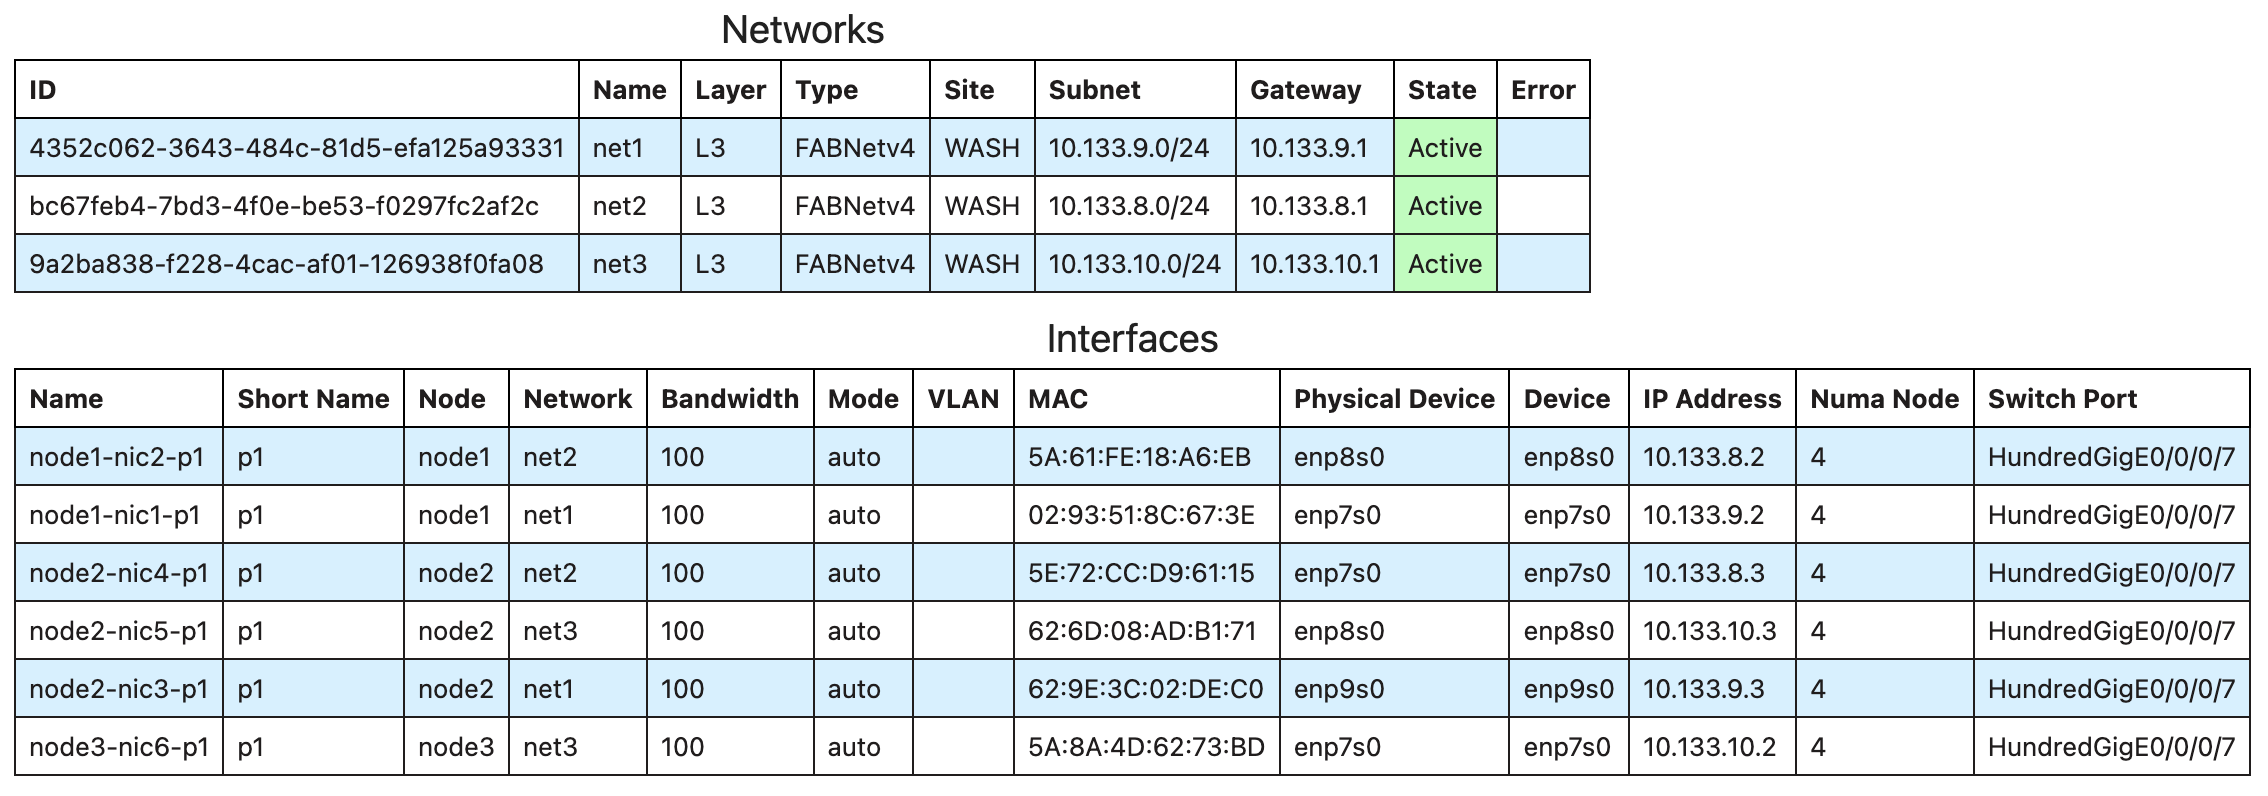
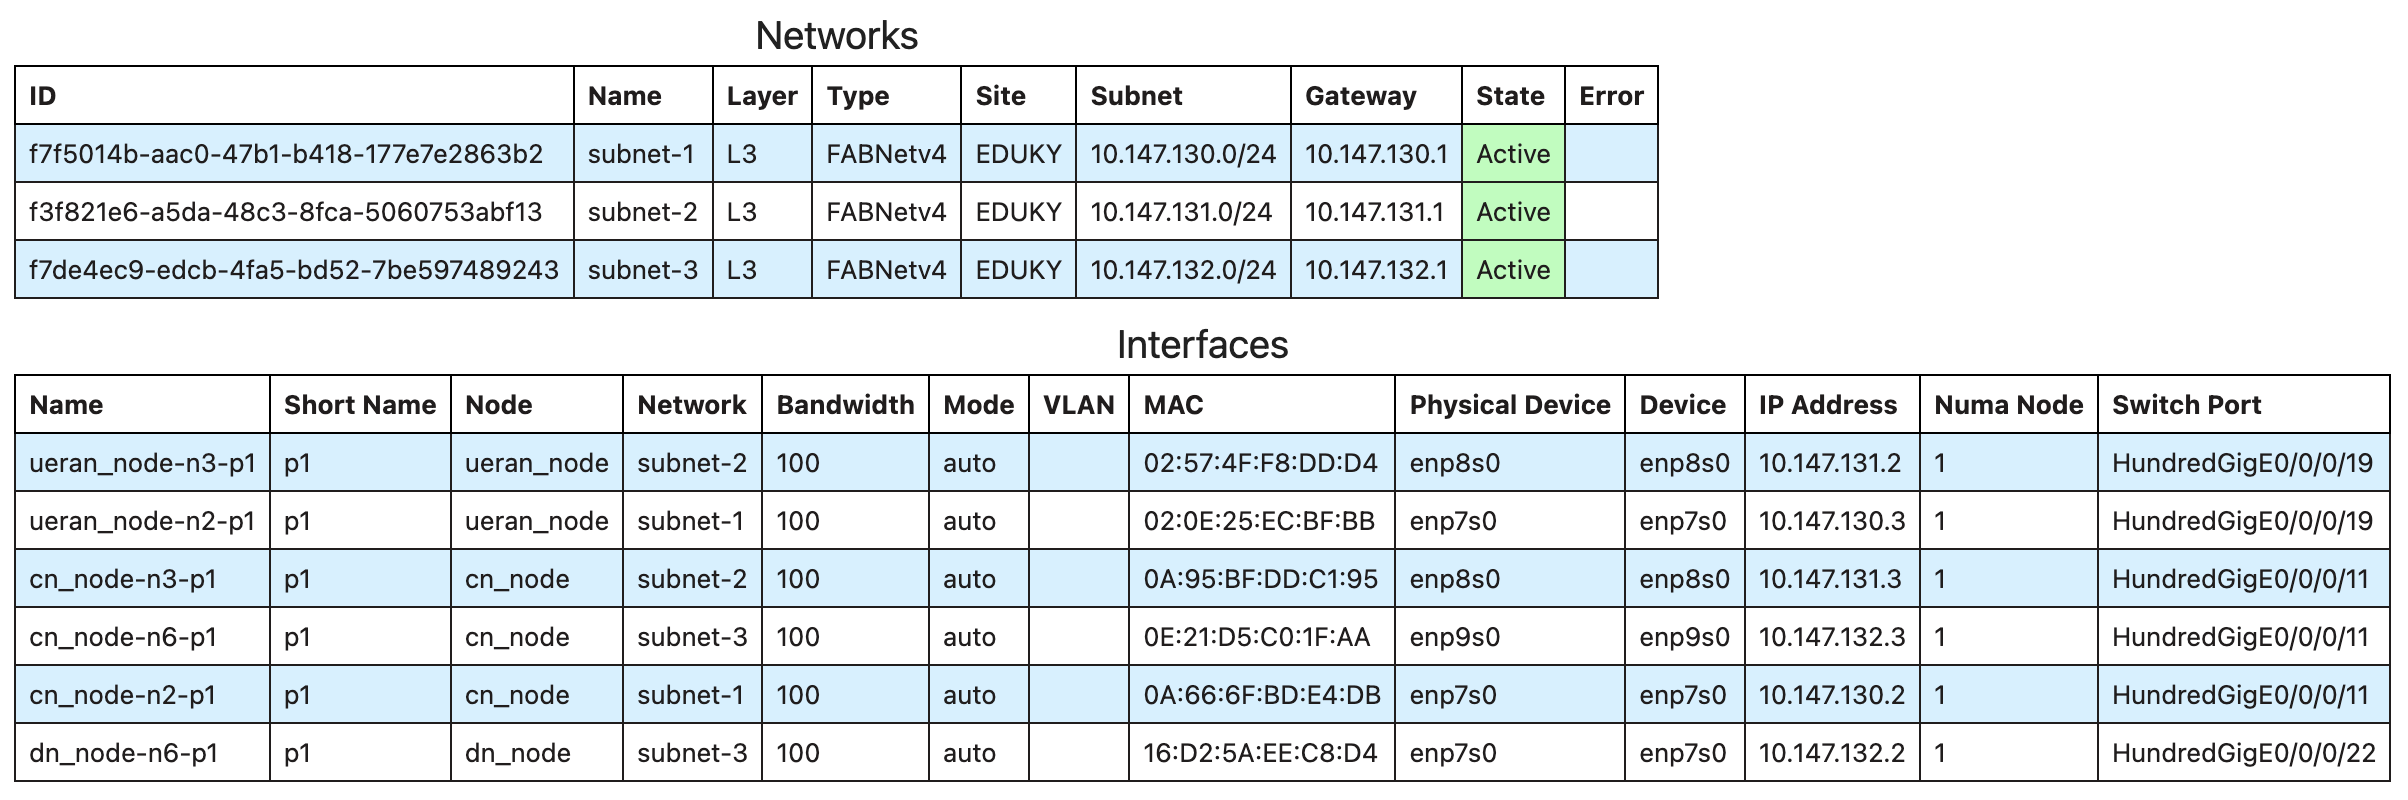
update 2nd tutorial

Changed region(s): [[0.0, 0.0302, 1.0, 0.995]]

diff --git a/docs/knit-2026-tutorials/2nd-tutorial.md b/docs/knit-2026-tutorials/2nd-tutorial.md
@@ -35,14 +35,12 @@ You will be assigned a specific node.  Please do not use any servers not assigne
 We have also released an artifact for creating clusters on Fabric: **[L25GC+ FABRIC Artifact](https://artifacts.fabric-testbed.net/artifacts/078e8c8d-eb8d-4279-b711-85fb217a7db7)**
 
 ### Topology Setup
-The experimental testbed consists of a UE/RAN node, a Core Network node, and a Data Network (DN) node, connected through three separate subnets. Subnet-1 is used for the N2 interface between the UE/RAN and the control-plane NFs in the 5G core. Subnet-2 is used for the N3 interface between the UE/RAN and the UPF-U. Subnet-3 is used for the N6 interface between the UPF-U and the DN.
+The experimental testbed consists of a UE/RAN node, a Core Network (CN) node, and a Data Network (DN) node, connected through three separate subnets. `subnet-1` is used for the N2 interface between the UE/RAN and the control-plane NFs in the 5G core. `subnet-2` is used for the N3 interface between the UE/RAN and the UPF-U. `subnet-3` is used for the N6 interface between the UPF-U and the DN.
 
 ![FABRIC Topology](./tutorial-topo.png)
 
 ### Example FABRIC Network and Interface Configuration
 The screenshot below shows an example network and interface configuration after creating a cluster on the FABRIC testbed. 
-
-In this example, `net1` corresponds to **Subnet-1**, which connects the UE/RAN and the N2 interface of the core network control plane. `net2` corresponds to **Subnet-2**, which connects the UE/RAN and the N3 interface in the core network. `net3` corresponds to **Subnet-3**, which connects the N6 interface in the core network and the DN.
 
 Users should pay close attention to four pieces of information for each interface: 
 - the node that the interface belongs to (**Node** column)
@@ -90,7 +88,11 @@ The AMF configuration file is located at:
 ~/L25GC-plus/config/amfcfg.yaml
 ```
 
-Open the file and find the `ngapIpList` field. By default, it is set to `127.0.0.1`, which must be replaced with the actual **N2 IP address** of the Core Network node. In the example shown in [Example FABRIC Network and Interface Configuration](#example-fabric-network-and-interface-configuration), this is the IP address assigned to `enp9s0` (i.e., `net1` interface on the node2), which is `10.133.9.3`. 
+Open the file and find the `ngapIpList` field. By default, it is set to `127.0.0.1`, which must be replaced with the actual **N2 IP address** of the Core Network node.
+
+> You can find this IP by checking the FABRIC configuration output table: in the **Interfaces** section, look for the row whose **Name** matches the CN node’s N2 interface (`cn_node-n2-p1`), and then copy the value from the **IP Address** column. In the example shown in [Example FABRIC Network and Interface Configuration](#example-fabric-network-and-interface-configuration), the **N2 IP address** of the Core Network node is `10.147.130.2`.
+
+![AMF Configuration](./amf-config.png)
 
 Change:
 
@@ -103,7 +105,7 @@ to:
 
 ```yaml
 ngapIpList:  # the IP list of N2 interfaces on this AMF
-- {N2_IP_ON_CN}
+- {IP of cn_node-n2-p1 in your FABRIC cluster}
 ### Replace it with the actual N2 IP address of your own Core Network node! ###
 ```
 
@@ -118,7 +120,11 @@ The SMF configuration file is located at:
 ~/L25GC-plus/config/smfcfg.yaml
 ```
 
-Open the file and find the `endpoints` field. By default, it is set to `127.0.0.8`, which must be replaced with the actual **N3 IP address** of the Core Network node. In the example shown in [Example FABRIC Network and Interface Configuration](#example-fabric-network-and-interface-configuration), this is the IP address assigned to `enp7s0` (i.e., `net2` interface on the node2), which is `10.133.8.3`. 
+Open the file and find the `endpoints` field. By default, it is set to `127.0.0.8`, which must be replaced with the actual **N3 IP address** of the Core Network node.
+
+> You can find this IP by checking the FABRIC configuration output table: in the **Interfaces** section, look for the row whose **Name** matches the CN node's N3 interface (`cn_node-n3-p1`), and then copy the value from the **IP Address** column. In the example shown in [Example FABRIC Network and Interface Configuration](#example-fabric-network-and-interface-configuration), the **N3 IP address** of the Core Network node is `10.147.131.3`.
+
+![SMF Configuration](./smf-config.png)
 
 Change:
 
@@ -137,7 +143,7 @@ to:
   interfaces: # Interface list of the UPF-U
    - interfaceType: N3 # the type of the interface (N3 or N9)
      endpoints: # the IP address of this N3 interface on this UPF
-       - {N3_IP_ON_CN}
+       - {IP of cn_node-n3-p1 in your FABRIC cluster}
 ```
 
 ### Step-5: Configure UPF-U
@@ -147,6 +153,17 @@ The UPF-U configuration file is located at:
 ```bash
 ~/L25GC-plus/NFs/onvm-upf/5gc/upf_u/config/upf_u.yaml
 ```
+
+> **N3/N6 IP addresses on CN node:** You can find the corresponding **N3** and **N6** IP addresses by checking the FABRIC configuration output table: in the **Interfaces** section, look for the row whose **Name** matches the CN node's N3 interface (`cn_node-n3-p1`) and N6 interface (`cn_node-n6-p1`), and then copy the value from the **IP Address** column. 
+
+In the example shown in [Example FABRIC Network and Interface Configuration](#example-fabric-network-and-interface-configuration), the **N3 IP address** of the Core Network node is `10.147.131.3` and the **N6 IP address** of the Core Network node is `10.147.132.3`.
+![UPF-U Configuration](./upf-u-config.png)
+
+
+> **N3/N6 IP addresses on UERAN/DN node:** You can find the corresponding **N3** and **N6** IP addresses by checking the FABRIC configuration output table: in the **Interfaces** section, look for the row whose **Name** matches the UERAN node's N3 interface (`ueran_node-n3-p1`) and  DN node's N6 interface (`dn_node-n6-p1`), and then copy the value from the **IP Address** column. 
+
+In the example shown in [Example FABRIC Network and Interface Configuration](#example-fabric-network-and-interface-configuration), the **N3 IP address** of the UERAN node is `10.147.131.2` and the **N6 IP address** of the DN node is `10.147.132.2`.
+![UERAN/DN Configuration](./ueran-dn-config.png)
 
 The configuration file should look like this (based on the example shown in [Example FABRIC Network and Interface Configuration](#example-fabric-network-and-interface-configuration)):
 
@@ -158,10 +175,10 @@ info:
 configuration:
   log_level: "warning" # trace, debug, info, warning, error, fatal, panic
   dataplane:
-    upf_n3_ip: "{N3_IP_ON_CN}"    # N3 interface IP address on the Core Network node
-    upf_n6_ip: "{N6_IP_ON_CN}"   # N6 interface IP address on the Core Network node
-    an_peer_n3_ip: "{N3_IP_ON_UERAN_NODE}"  # N3 interface IP address on the UE/RAN node
-    dn_peer_n6_ip: "{N6_IP_ON_DN}"          # N6 interface IP address on the DN node
+    upf_n3_ip: "{IP of cn_node-n3-p1}"         # N3 interface IP address on the Core Network node
+    upf_n6_ip: "{IP of cn_node-n6-p1}"         # N6 interface IP address on the Core Network node
+    an_peer_n3_ip: "{IP of ueran_node-n3-p1}"  # N3 interface IP address on the UE/RAN node
+    dn_peer_n6_ip: "{IP of dn_node-n6-p1}".    # N6 interface IP address on the DN node
 
     ports:
       n3_port: 0                     # NIC port used for N3 interface
@@ -238,22 +255,30 @@ cd ~/L25GC-plus/
 > Since the UE and DN are in different L3 subnets, both the UERAN node and the DN node need static routes so that traffic is forwarded through the UPF-U.
 
 On the UERAN node, add a route so that traffic destined for the DN server is sent through the UPF-U's N3 interface:
-
 ```bash
 # On the UERAN node:
-sudo ip route add <DN_SERVER_IP> via <N3_IP_on_UPF_U> dev <N3_INTERFACE_on_UERAN>
-
-# Example:
-sudo ip route add 10.133.10.2 via 10.133.9.3 dev enp8s0
+sudo ip route add <IP of dn_node-n6-p1> via <IP of cn_node-n3-p1> dev <Device of ueran_node-n3-p1>
 ```
 
-- Here, `10.133.9.3` is the **UPF-U N3 IP**. It should match the `upf_n3_ip` configured in:
+You can find these values directly from the FABRIC **Interfaces** table by matching the **Name** column:
 
-  ```bash
-  ~/L25GC-plus/NFs/onvm-upf/5gc/upf_u/config/upf_u.yaml
-  ```
-- `N3_INTERFACE_on_UERAN` is the local network interface on the UERAN node that is connected to the **Subnet-2** as the UPF-U's N3 interface. In the example above, this interface is `enp8s0`.
+* Find the row named `dn_node-n6-p1`, and use its **IP Address** as the destination IP.
+* Find the row named `cn_node-n3-p1`, and use its **IP Address** as the next-hop (`via`) IP.
+* Find the row named `ueran_node-n3-p1`, and use its **Device** as the outgoing interface (`dev`).
 
+![Add L3 Route to DN server](./add-dn-route.png)
+
+In the example shown in [Example FABRIC Network and Interface Configuration](#example-fabric-network-and-interface-configuration):
+
+* `dn_node-n6-p1` → `IP Address = 10.147.132.2`
+* `cn_node-n3-p1` → `IP Address = 10.147.131.3`
+* `ueran_node-n3-p1` → `Device = enp8s0`
+
+So the route becomes:
+
+```bash
+sudo ip route add 10.147.132.2 via 10.147.131.3 dev enp8s0
+```
 
 ### Step-3: Configure UERANsim (PDU Establishment only)
 > This step updates the UERANsim gNB configuration so that the simulated gNB uses the correct **N2** and **N3** interface IP addresses and can connect to the **AMF** and **UPF-U** in the core network. These settings must match the actual network configuration of your FABRIC cluster.
@@ -263,12 +288,7 @@ The UERANsim gNB configuration file is located at:
 ~/L25GC-plus/UERANSIM/config/free5gc-gnb.yaml
 ```
 
-In this file:
-* `ngapIp` should be set to the gNB's **N2 interface IP address**. In the example shown in [Example FABRIC Network and Interface Configuration](#example-fabric-network-and-interface-configuration), this is the IP address assigned to `enp7s0` (i.e., `net1` interface on the **node1**), which is `10.133.9.2`. 
-* `gtpIp` should be set to the gNB's **N3 interface IP address**. In the example shown in [Example FABRIC Network and Interface Configuration](#example-fabric-network-and-interface-configuration), this is the IP address assigned to `enp8s0` (i.e., `net2` interface on the **node1**), which is `10.133.8.2`.
-* `amfConfigs.address` should be set to the **AMF's N2 interface IP address**. In the example shown in [Example FABRIC Network and Interface Configuration](#example-fabric-network-and-interface-configuration), this is the IP address assigned to `enp9s0` (i.e., `net1` interface on the **node2**), which is `10.133.9.3`.
-
-For example, replace:
+Replace:
 
 ```yaml
 ...
@@ -283,14 +303,26 @@ with:
 
 ```yaml
 ...
-  ngapIp: {N2_IP_ON_UERAN_NODE}   # gNB's N2 Interface IP address
-  gtpIp:  {N3_IP_ON_UERAN_NODE}   # gNB's N3 Interface IP address
+  ngapIp: {IP of ueran_node-n2-p1}   # gNB's N2 Interface IP address
+  gtpIp:  {IP of ueran_node-n3-p1}   # gNB's N3 Interface IP address
 
   amfConfigs:
-    - address: {N2_IP_ON_CN}      # AMF's N2 interface IP address
+    - address: {IP of cn_node-n2-p1}      # AMF's N2 interface IP address
 ```
 
-Make sure these values match the actual interface IP addresses in your own FABRIC cluster.
+Make sure these values match the actual interface IP addresses in your own FABRIC cluster. You can find them directly from the FABRIC **Interfaces** table by matching the **Name** column:
+
+* `ngapIp` should be set to the **IP Address** of `ueran_node-n2-p1`, which is the gNB's **N2 interface IP**.
+* `gtpIp` should be set to the **IP Address** of `ueran_node-n3-p1`, which is the gNB's **N3 interface IP**.
+* `amfConfigs.address` should be set to the **IP Address** of `cn_node-n2-p1`, which is the AMF's **N2 interface IP**.
+
+In the example shown in [Example FABRIC Network and Interface Configuration](#example-fabric-network-and-interface-configuration):
+
+* `ueran_node-n2-p1` → `IP Address = 10.147.130.3`, so `ngapIp: 10.147.130.3`
+* `ueran_node-n3-p1` → `IP Address = 10.147.131.2`, so `gtpIp: 10.147.131.2`
+* `cn_node-n2-p1` → `IP Address = 10.147.130.2`, so `amfConfigs.address: 10.147.130.2`
+
+![UERANsim Configuration](./ueransim-config.png)
 
 ### Step-4: Configure OAI UE/RAN simulator (PDU Establishment + Handover)
 > This step updates the OpenAirInterface configuration files so that the gNBs, UE, and neighboring cell settings match the current testbed environment. In particular, you will configure the PLMN and slice information, set the correct N2 and N3 IP addresses, and prepare a second gNB for the N2 handover experiment.
@@ -312,53 +344,51 @@ vim ~/L25GC-plus/openairinterface5g/targets/PROJECTS/GENERIC-NR-5GC/CONF/gnb.sa.
 In this file, update the following three sections.
 
 ##### (a) Update `plmn_list` in the `gNBs` entry
-<!-- We will edit three parts here, start with the entry inside `gNBs`, set `plmn_list` as follows. -->
 ```bash
     plmn_list = ({ mcc = 208; mnc = 93; mnc_length = 2; snssaiList = ({ sst = 0x01; sd = 0x010203; }) });
 ```
 
-##### (b) Set `amf_ip_address` to the AMF's N2 interface IP address
-<!-- then at around line 159, set `amf_ip_address` to AMF's N2 interface, ex: -->
+##### (b) Set `amf_ip_address` to the AMF's N2 interface IP address (IP of `cn_node-n2-p1`)
 ```bash
     ////////// AMF parameters:
-    amf_ip_address = ({ ipv4 = "192.168.3.2"; });
+    amf_ip_address = ({ ipv4 = "IP of cn_node-n2-p1"; });
 ```
 
 ##### (c) Set the gNB's N2 and N3 interface IP addresses in `NETWORK_INTERFACES`
-<!-- lastly, edit `GNB_IPV4_ADDRESS_FOR_NG_AMF` and `GNB_IPV4_ADDRESS_FOR_NGU` inside entry `NETWORK_INTERFACES` to gNB's N2 interface and gNB's N3 interface, ex: -->
 ```bash
     NETWORK_INTERFACES :
     {
-        GNB_IPV4_ADDRESS_FOR_NG_AMF              = "192.168.3.1/24";
-        GNB_IPV4_ADDRESS_FOR_NGU                 = "192.168.1.1/24";
+        GNB_IPV4_ADDRESS_FOR_NG_AMF              = "IP of ueran_node-n2-p1";
+        GNB_IPV4_ADDRESS_FOR_NGU                 = "IP of ueran_node-n3-p1";
         GNB_PORT_FOR_S1U                         = 2152; # Spec 2152
     };
 ```
-`GNB_IPV4_ADDRESS_FOR_NG_AMF` should be the **gNB's N2 address**, and `GNB_IPV4_ADDRESS_FOR_NGU` should be the **gNB's N3 address**.
+`GNB_IPV4_ADDRESS_FOR_NG_AMF` should be the **gNB's N2 address** (`ueran_node-n2-p1`), and `GNB_IPV4_ADDRESS_FOR_NGU` should be the **gNB's N3 address** (`ueran_node-n3-p1`).
+
+![OAI UERAN Configuration](./oai-ueran-config.png)
 
 #### 2. Add IP addresses for the second gNB
 Since the experiment performs an N2 handover, a **second gNB** is required. 
 Assign one additional N2 IP address and one additional N3 IP address for the second gNB. For example:
 ```bash
 # N2 interface
-sudo ip a add 192.168.3.3/24 dev enp8s0
+sudo ip a add <Select an unused IP in the Subnet-1> dev <Device of ueran_node-n2-p1>
 
 # N3 interface
-sudo ip a add 192.168.1.3/24 dev enp7s0
+sudo ip a add <Select an unused IP in the Subnet-2> dev <Device of ueran_node-n3-p1>
 ```
 
-#### 3. Edit the second gNB configuration
+![OAI 2nd gNB Configuration](./oai-2nd-gnb-config.png)
+
 Next, edit `~/L25GC-plus/openairinterface5g/targets/PROJECTS/GENERIC-NR-5GC/CONF/gnb.sa.band78.fr1.106PRB.pci1.rfsim.conf` using the same steps as above.
-<!-- After setting up second ip addresses, please follow the above edit gNB config steps and modify `~/L25GC-plus/openairinterface5g/targets/PROJECTS/GENERIC-NR-5GC/CONF/gnb.sa.band78.fr1.106PRB.pci1.rfsim.conf`.  -->
 
 Make sure that:
-- `amf_ip_address` is still set to the **AMF's N2 interface IP address**
-- `GNB_IPV4_ADDRESS_FOR_NG_AMF` is set to the **second gNB's N2 address**
-- `GNB_IPV4_ADDRESS_FOR_NGU` is set to the **second gNB's N3 address**
+- `amf_ip_address` is still set to the **AMF's N2 interface IP address** (`cn_node-n2-p1`)
+- `GNB_IPV4_ADDRESS_FOR_NG_AMF` is set to the **second gNB's** N2 address
+- `GNB_IPV4_ADDRESS_FOR_NGU` is set to the **second gNB's** N3 address
 
-<!-- Please remember to set `GNB_IPV4_ADDRESS_FOR_NG_AMF` and `GNB_IPV4_ADDRESS_FOR_NGU` to new created addresses. -->
 
-#### 4. Edit the neighbor cell configuration
+#### 3. Edit the neighbor cell configuration
 Now edit `~/L25GC-plus/openairinterface5g/targets/PROJECTS/GENERIC-NR-5GC/CONF/neighbour-config-rfsim.conf`
 ```bash
 vim targets/PROJECTS/GENERIC-NR-5GC/CONF/neighbour-config-rfsim.conf
@@ -369,7 +399,7 @@ Inside `neighbour_list`, there are **two** `neighbour_cell_configuration` entrie
         plmn                = { mcc = 208; mnc = 93; mnc_length = 2 };
 ```
 
-##### 5. Edit the UE UICC configuration
+##### 4. Edit the UE UICC configuration
 Finally, edit `uicc0` in `~/L25GC-plus/openairinterface5g/ci-scripts/conf_files/nrue.uicc.conf`:
 ```bash
 uicc0 = {
@@ -379,11 +409,6 @@ uicc0 = {
   pdu_sessions = ({ dnn = "internet"; nssai_sst = 0x01; nssai_sd = 0x010203; });
 }
 ```
-
-**Notes**:
-* Replace the example IP addresses above with the actual IP addresses in your FABRIC cluster.
-* The subnet ranges and interface names may differ across testbeds.
-* Be sure that the PLMN, slice, and UE subscription settings are consistent across the gNB, neighbor configuration, UE, and core network.
 
 ## 3. Log into the DN node and Setup Environment
 Open **a new terminal** and SSH into your assigned DN node.
@@ -405,23 +430,32 @@ cd ~/L25GC-plus/
 ### Step-2: Add the L3 Route to UE
 > Since the UE and DN are in different L3 subnets, both the UERAN node and the DN node need static routes so that traffic is forwarded through the UPF-U.
 
-On the DN node, add a route so that reply traffic to the UE subnet (or a specific UE IP such as `10.60.0.1`) is sent through the UPF-U N6 interface:
+On the DN node, add a route so that reply traffic to the UE IP is sent through the UPF-U N6 interface.
+
+In this tutorial, the UE is assigned the default IP address `10.60.0.1`. If your setup uses a different UE IP, replace `10.60.0.1` accordingly. Note that `10.60.0.1` is not taken from the FABRIC interface table; it is the UE IP defined by the tutorial configuration.
 
 ```bash
 # On the DN node:
-sudo ip route add <UE_IP_or_SUBNET> via <N6_IP_on_UPF_U> dev <N6_INTERFACE_on_DN>
-
-# Example:
-sudo ip route add 10.60.0.1 via 10.133.10.3 dev enp7s0
+sudo ip route add 10.60.0.1 via <IP of cn_node-n6-p1> dev <Device of dn_node-n6-p1>
 ```
 
-- Here, `10.133.10.3` is the **UPF-U N6 IP**. It should match the `upf_n6_ip` configured in:
+You can find these values directly from the FABRIC **Interfaces** table by matching the **Name** column:
 
-  ```bash
-  ~/L25GC-plus/NFs/onvm-upf/5gc/upf_u/config/upf_u.yaml
-  ```
+* Find the row named `cn_node-n6-p1`, and use its **IP Address** as the next-hop (`via`) IP.
+* Find the row named `dn_node-n6-p1`, and use its **Device** as the outgoing interface (`dev`).
 
-- `N6_INTERFACE_on_DN` is the local network interface on the DN node that is connected to the **Subnet-3** as the UPF-U's N6 interface. In the example above, this interface is `enp7s0`.
+![Add L3 Route to UE](./add-ue-route.png)
+
+In the example shown in [Example FABRIC Network and Interface Configuration](#example-fabric-network-and-interface-configuration):
+
+* `cn_node-n6-p1` → `IP Address = 10.147.132.3`
+* `dn_node-n6-p1` → `Device = enp7s0`
+
+So the route becomes:
+
+```bash
+sudo ip route add 10.60.0.1 via 10.147.132.3 dev enp7s0
+```
 
 ---
 
@@ -466,7 +500,7 @@ sudo ./nr-uesoftmodem -r 106 --numerology 1 --band 78 -C 3619200000 --rfsim --ui
 ```
 Log should shows "PDU Session establishment successful".
 
-Use `ip a` to check whether the tunnel `oaitun_ue1 ` presented, if it exists, pdu session setup is success!✅
+Use `ip a` to check whether the tunnel `oaitun_ue1` presented, if it exists, pdu session setup is success!✅
 
 ### Handover experiment
 
